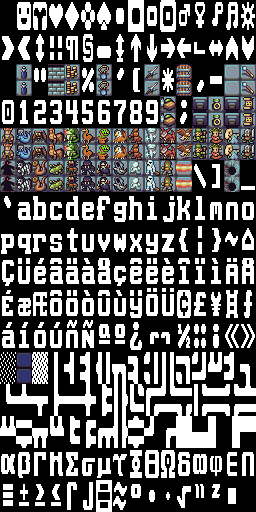
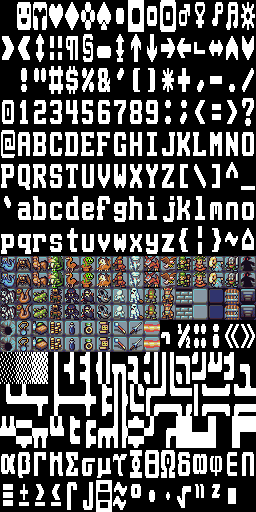
fix: move tiled sprites to extended CP437 range 128-169 to avoid clobbering text
The previous placement put monster sprites at A-Z (65-90) and item sprites
at their ASCII positions (!, ?, @, etc.), which caused UI text (title screen,
status bar, hints) to render those letters as sprite tiles instead of text.

Fix: regenerate rogue_tiles.png placing ALL game tiles at extended positions
128-169, keeping standard ASCII 32-127 intact as the boxy text font.

Code changes:
- tiled_tile_render() now returns (u16, color) with raw tile indices so
  render_play can call ctx.set() directly without to_cp437()
- tiled_entity_glyph() maps entity glyphs to their raw extended positions
- render_play branches on use_tiled() before the boxy/ascii path to use
  raw u16 glyph values instead of to_cp437()

Tileset layout (all in rogue_tiles.png at 128+):
  128-153 monsters A-Z, 154 player, 155 wall, 156 floor, 157 passage,
  158 door, 159 stairs, 160 trap, 161-169 items (amulet/food/gold/potion/
  ring/scroll/wand/weapon/armor)

diff --git a/rogue-rs/rogue-cli/src/game.rs b/rogue-rs/rogue-cli/src/game.rs
@@ -2119,39 +2119,48 @@ impl Game {
                 if !self.map.is_revealed(p) {
                     continue;
                 }
-                let (glyph, mut color) = if self.theme.use_tiled() {
-                    tiled_tile_render(self.map.tile(p))
-                } else if self.theme.use_boxy() {
-                    boxy_tile_render(self.map.tile(p), p, &self.map)
+                if self.theme.use_tiled() {
+                    let (glyph_u16, mut color) = tiled_tile_render(self.map.tile(p));
+                    if !self.map.is_visible(p) {
+                        color = dim(color);
+                    }
+                    ctx.set(x, y + MAP_TOP, self.theme.apply(color), self.theme.bg(), glyph_u16);
                 } else {
-                    tile_render(self.map.tile(p))
-                };
-                if !self.map.is_visible(p) {
-                    color = dim(color); // remembered but out of sight
+                    let (glyph, mut color) = if self.theme.use_boxy() {
+                        boxy_tile_render(self.map.tile(p), p, &self.map)
+                    } else {
+                        tile_render(self.map.tile(p))
+                    };
+                    if !self.map.is_visible(p) {
+                        color = dim(color);
+                    }
+                    ctx.set(x, y + MAP_TOP, self.theme.apply(color), self.theme.bg(), to_cp437(glyph));
                 }
-                ctx.set(x, y + MAP_TOP, self.theme.apply(color), self.theme.bg(), to_cp437(glyph));
             }
         }
 
         // Entities, only where currently visible.
         for (e, (pos, r)) in self.world.query::<(&Position, &Renderable)>().iter() {
             if self.map.is_visible(pos.0) {
-                let (glyph, entity_color) = if self.theme.use_tiled() {
-                    // In tiled mode all entity sprites carry their own color, so
-                    // render with full white so the tile image is unmodified.
-                    (r.glyph, (255u8, 255u8, 255u8))
-                } else if self.theme.use_boxy() && e == self.player {
-                    ('☺', r.color)
+                if self.theme.use_tiled() {
+                    // Use raw tile indices so entity sprites don't conflict with text glyphs.
+                    ctx.set(
+                        pos.0.x,
+                        pos.0.y + MAP_TOP,
+                        self.theme.apply((255u8, 255u8, 255u8)),
+                        self.theme.bg(),
+                        tiled_entity_glyph(r.glyph),
+                    );
                 } else {
-                    (r.glyph, r.color)
-                };
-                ctx.set(
-                    pos.0.x,
-                    pos.0.y + MAP_TOP,
-                    self.theme.apply(entity_color),
-                    self.theme.bg(),
-                    to_cp437(glyph),
-                );
+                    let glyph = if self.theme.use_boxy() && e == self.player { '☺' } else { r.glyph };
+                    ctx.set(
+                        pos.0.x,
+                        pos.0.y + MAP_TOP,
+                        self.theme.apply(r.color),
+                        self.theme.bg(),
+                        to_cp437(glyph),
+                    );
+                }
             }
         }
 
@@ -2684,25 +2693,60 @@ fn boxy_tile_render(t: TileKind, p: Point, map: &Map) -> (char, (u8, u8, u8)) {
 }
 
 // ── Tiled (pixel-art sprites) tile rendering ─────────────────────────────────
+//
+// All game sprites live at extended CP437 positions 128-169 in rogue_tiles.png
+// so they never overlap the standard ASCII range (32-127) used for UI text.
+//
+// Layout in the tileset:
+//   128-153  Monsters A–Z
+//   154      Player (@)
+//   155      Wall
+//   156      Floor
+//   157      Passage
+//   158      Door
+//   159      Stairs (up and down share one sprite)
+//   160      Trap
+//   161      Amulet  (&)
+//   162      Food    (:)
+//   163      Gold    ($)
+//   164      Potion  (!)
+//   165      Ring    (=)
+//   166      Scroll  (?)
+//   167      Wand    (/)
+//   168      Weapon  ())
+//   169      Armor   ([)
 
-/// Tile glyph + color for the tiled pixel-art theme.
-///
-/// Each glyph maps to a sprite in `rogue_tiles.png` at the matching CP437
-/// position.  Visible tiles use full white so the tile's own colors show
-/// through.  Passage tiles use `'▒'` (U+2592 = CP437 177), which is mapped
-/// to the legacy passage sprite in the tileset.
-fn tiled_tile_render(t: TileKind) -> (char, (u8, u8, u8)) {
+/// Raw font-sheet index for each map tile (bypasses `to_cp437`).
+fn tiled_tile_render(t: TileKind) -> (u16, (u8, u8, u8)) {
     let white = (255u8, 255u8, 255u8);
     match t {
-        TileKind::Empty      => (' ', (0, 0, 0)),
-        TileKind::Wall       => ('#', white),
-        TileKind::SecretDoor => ('#', white),
-        TileKind::Floor      => ('.', white),
-        TileKind::Passage    => ('▒', white), // CP437 177 → passage sprite
-        TileKind::Door       => ('+', white),
-        TileKind::StairsDown => ('>', white),
-        TileKind::StairsUp   => ('<', white),
-        TileKind::Trap       => ('^', white),
+        TileKind::Empty      => (32,  (0, 0, 0)),
+        TileKind::Wall       => (155, white),
+        TileKind::SecretDoor => (155, white),
+        TileKind::Floor      => (156, white),
+        TileKind::Passage    => (157, white),
+        TileKind::Door       => (158, white),
+        TileKind::StairsDown => (159, white),
+        TileKind::StairsUp   => (159, white),
+        TileKind::Trap       => (160, white),
+    }
+}
+
+/// Map an entity's render glyph to the raw tile-sheet index for tiled mode.
+fn tiled_entity_glyph(glyph: char) -> u16 {
+    match glyph {
+        'A'..='Z' => 128 + (glyph as u16 - 'A' as u16),
+        '@'       => 154,
+        '!'       => 164,
+        ':'       => 162,
+        ')'       => 168,
+        '['       => 169,
+        '&'       => 161,
+        '?'       => 166,
+        '='       => 165,
+        '/'       => 167,
+        '$'       => 163,
+        _         => to_cp437(glyph),
     }
 }
 
